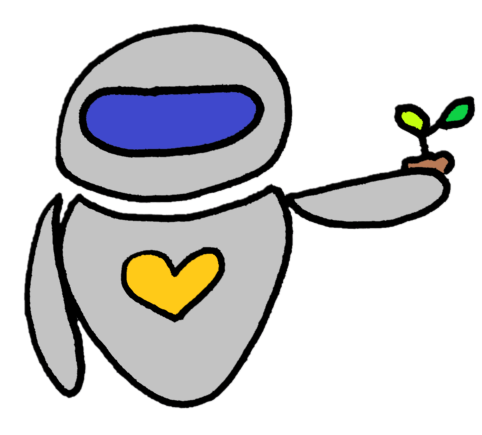
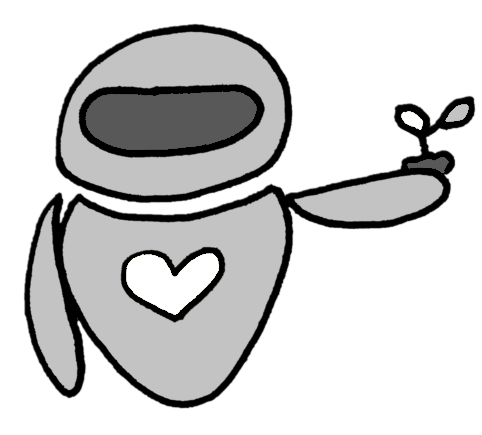
Finished hire game start screen

diff --git a/hire.html b/hire.html
@@ -43,50 +43,30 @@
     </div>
   </navbar>
 
-  <div class='container main-menu rounded'>
-    <h1>Are you looking for a...</h1>
-
-    <div class='card-row'>
-      <div class='card'>
-        <img src='images/swe-symbol.png'>
+  <div class='container mt-start d-flex flex-column justify-content-center align-items-center'>
+    <h1 class='text-center mb-4'>Choose your intern (￣▽￣)ノ</h1>
+    <div class='card-row rounded mb-4'>
+      <div class='character-card' id='swe'>
+        <img src='images/swe-hover.png'>
         <h3>Software Engineer</h3>
       </div>
-
-      <div class='card'>
-        <img src='images/eve-symbol.png'>
-        <h3>Firmware Engineer</h3>
-      </div>
-
-      <div class='card'>
-        <img src='images/world-symbol.png'>
+      <div class='character-card' id='world'>
+        <img src='images/world-hover.png'>
         <h3>Data Scientist</h3>
       </div>
-
-      <div class='card'>
-        <img src='images/sail-symbol.png'>
+      <div class='character-card' id='eve'>
+        <img src='images/eve-hover.png'>
+        <h3>Firmware Engineer</h3>
+      </div>
+      <div class='character-card' id='sail'>
+        <img src='images/sail-hover.png'>
         <h3>Creative Leader</h3>
       </div>
     </div>
-
+    <button type='button' class='btn btn-success' id='start-game-button'>
+      <h2>Let's go!</h2>
+    </button>
   </div>
-
-  <footer>
-    <div class='container d-flex align-items-center'>
-      <div class='mr-auto'>&copy;2019 Roshini Saravanakumar</div>
-      <div class='ml-auto'>
-        <a class='btn btn-social-icon btn-github' href='https://github.com/roshinis78' target='_blank'>
-          <i class='fa fa-github'></i>
-        </a>
-        <a class='btn btn-social-icon btn-gitlab' href='https://gitlab.com/roshinis' target='_blank'>
-          <i class='fa fa-gitlab'></i>
-        </a>
-        <a class='btn btn-social-icon btn-linkedin' href='https://www.linkedin.com/in/roshini-saravanakumar/'
-          target='_blank'>
-          <i class='fa fa-linkedin'></i>
-        </a>
-      </div>
-    </div>
-  </footer>
 
   <!-- Bootstrap scripts -->
   <script src="https://code.jquery.com/jquery-3.3.1.slim.min.js"
@@ -101,6 +81,7 @@
 
   <!-- My js utility functions -->
   <script src='scripts/common.js'></script>
+  <script src='scripts/hire.js'></script>
 </body>
 
 </html>

diff --git a/styles/hire.css b/styles/hire.css
@@ -1,41 +1,50 @@
 body {
-    background: url('../images/golden-gate.jpg');
-    background-size: 100% auto;
+    background-color: skyblue;
+    color: white;
 }
 
-.main-menu {
+.mt-start {
     margin-top: 100px;
-    padding: 2rem;
-    font-family: 'Patrick Hand SC', cursive;
 }
 
-.card img {
+.character-card img {
     width: 85%;
     height: auto;
+    filter: grayscale(100%);
+
+    transition-property: filter;
+    transition-duration: 270ms;
 }
 
-.card {
-    margin: 0.5rem 0.25rem;
-    width: 260px;
-    height: 360px;
-
-    background: rgba(255, 255, 255, 0.445);
+.character-card {
+    position: relative;
+    min-width: 275px;
+    min-height: 375px;
 
     display: flex;
     flex-direction: column;
-    flex-wrap: wrap;
     align-items: center;
     justify-content: center;
 }
 
-.card h3{
+.character-card h3{
     position: absolute;
-    top: 80%;
+    top: 82%;
 }
 
 .card-row {
+    width: 100%;
+    overflow-x: scroll;
+
     display: flex;
     flex-direction: row;
-    flex-wrap: wrap;
-    justify-content: space-evenly;
+
+    background: rgba(255, 255, 255, 0.308);
+    color: black;
+}
+
+@media (min-width: 1200px){
+    .card-row {
+        overflow-x: visible;
+    }
 }

diff --git a/scripts/hire.js b/scripts/hire.js
@@ -1,0 +1,33 @@
+var selectedCharacter = 'swe';
+
+$(function () {
+    // by default swe is selected
+    $('#swe img').css('filter', 'none');
+
+    // add event listeners to the cards on hover
+    $('.character-card').on('mouseover', function () {
+        // switch to color
+        $(this).children('img').css('filter', 'none');
+    })
+    $('.character-card').on('mouseout', function () {
+        // switch to grayscale
+        if ($(this).attr('id') != selectedCharacter) {
+            $(this).children('img').css('filter', 'grayscale(100%)');
+        }
+    })
+
+    $('.character-card').on('click touchstart', function () {
+        // if character selected, unselect previous character
+        if (selectedCharacter != null) {
+            $('#' + selectedCharacter + ' img').css('filter', 'grayscale(100%)');
+        }
+
+        // select the new character
+        selectedCharacter = $(this).attr('id');
+        $(this).children('img').css('filter', 'none');
+    })
+
+    $('#start-game-button').on('click', function () {
+        alert("This feature is in the making! Please visit next week for updates!")
+    })
+})

diff --git a/styles/common.css b/styles/common.css
@@ -1,3 +1,8 @@
+html {
+  scroll-behavior: smooth;
+  height: 100%;
+}
+
 footer {
   background: #f8f9fa;
   color: #6c757d;
@@ -7,12 +12,9 @@ footer {
   align-items: center;
   justify-content: space-around;
 
-  padding: 1%;
+  width: 100%;
   height: auto;
-}
-
-html {
-  scroll-behavior: smooth;
+  padding: 0.25rem;
 }
 
 .navbar-logo {
